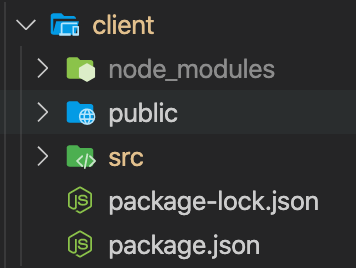
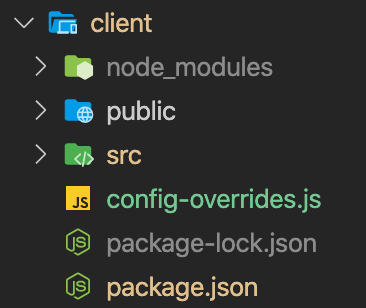
Modified README & in process of webpack config

diff --git a/routes/users.js b/routes/users.js
@@ -1,10 +1,19 @@
 /**
  * JWT Web Token Explanation
- * token = jwt.sign(payload, privateKey, signOptions)
  * 
- * payload: data that is encrypted
- * privateKey: used in RSA encryption
- * signOptions: specify configuration such as expire time, issuer of token etc..
+ * Token = header + payload + signature
+ * Both header and payload is simply encoded with base64 (which means anyone can decode and view its content)
+ * Signature is generated by hashing (SHA256) both header and payload with private key. Signature is what provides the
+ * token its confidentiality.
+ * Private key can only be viewed by the application and shouldn't be viewed by attacker
+ * 
+ * Nodejs JWT syntax:
+ * 
+ * jwt.sign(payload, privateKey, signOptions)
+ * Generates token
+ * 
+ * jwt.verify(token, private_key)
+ * Verify the token
  */
 
 const router = require('express').Router();

diff --git a/client/config-overrides.js b/client/config-overrides.js
@@ -1,0 +1,13 @@
+module.exports = (config, env) => {
+    config.module.rules.push(
+        {
+            test: /\.css$/,
+            use: [
+                "style-loader",
+                "css-loader",
+            ],
+            include: /\.module\.css$/
+        }
+    )
+    return config
+}

diff --git a/client/src/components/post.jsx b/client/src/components/post.jsx
@@ -1,6 +1,6 @@
 import React, { Component } from 'react';
 import PostImage from './image';
-import styles from './post.css';
+import styles from './post.module.css';
 import { Link } from 'react-router-dom';
 
 export default class Header extends Component {

diff --git a/README.md b/README.md
@@ -8,7 +8,7 @@ The primary goal of this project is to practice building web application using M
 [API Routes](#api-routes)<br>
 [Express](#express)<br>
 [Authentication](#authentication)<br>
-[Amazon S3](#amazon-s3)<br>
+[AWS](#aws)<br>
 [Set Up](#set-up)<br>
 [Running](#running)<br>
 [Deployment](#deployment)<br>
@@ -21,14 +21,13 @@ While not complete, I plan to add the following features to the application:<br>
 * Upload profile picture
 * Make a post with title, description, images, tags
 * Make a comment on the post
+* Chat interface
 
 
 #### Current To Do
-* React CSS Modularization
+* React CSS Modularization using webpack
 * Styling file uploader button
-* Working with Amazon S3 to upload files
 * Retrieving files from S3 and displaying on website
-* Redirection to home page after login/signup
 
 
 ## Files/Folders Explanation
@@ -67,6 +66,8 @@ Client folder contains react related files. Client-side and server-side is separ
     * **index.html:** The root html file at top of DOM. Used in react
     * **manifest.json:** Json file that describes the application
 * **src:** All the react related files
+* **config-overrides.js:** Used to override webpack configuration to allow css modules
+* **package.json:**
 
 #### Notes
 You need to run "npm install" in this folder to download all the dependencies used in front-end development<br>
@@ -87,7 +88,7 @@ Adding a webpage would involve modifying app.js file to define the client-side r
 
 
 ## API Routes
-There are two routing for web application; client and server. For explanation on the difference:
+There are two routing for web application: client and server. A stackoverflow post explains the difference:
 * With server-side routing you download an entire new webpage whenever you click on a link,
 * With client-side routing the webapp downloads, processes and displays new data for you.
 [More explanation](https://stackoverflow.com/questions/23975199/when-to-use-client-side-routing-or-server-side-routing)
@@ -112,7 +113,7 @@ Server side routes are used for restful API calls and accessing database.<br>
 | /audios/`<audio_id>`                    |                |                
 | /audios/`<audio_id>`/edit               | ✔              |
 | /images/                                |                |  
-| /images/create                          | ✔              |              
+| /images/create                          | ✔              |             
 | /images/`<audio_id>`                    |                |                
 | /images/`<audio_id>`/edit               | ✔              |
 
@@ -133,7 +134,7 @@ Server side routes are used for restful API calls and accessing database.<br>
 
 
 #### Notes
-Accessing resources from different [origin](https://developer.mozilla.org/en-US/docs/Glossary/Origin) involve [CORS](https://developer.mozilla.org/en-US/docs/Web/HTTP/CORS). 
+While in development the application is locally hosted (meaning they are in the same IP address without the need of using internet), they are still in a different port (3000 & 5000) (port is layer 3 or 4 of OSI model). I still have to consider [CORS](https://developer.mozilla.org/en-US/docs/Web/HTTP/CORS) problems as it is accessing resources from different [origin](https://developer.mozilla.org/en-US/docs/Glossary/Origin). 
 
 
 ## Express
@@ -168,20 +169,44 @@ Most commonly used status are 200, 400(Wrong Syntax) and 404(Not Found).
 * `router.route`
     * Returns an instance of a single route which you can then use to handle HTTP verbs with optional middleware
 
+
 ## Authentication
-Currently I am using JWT Based Authentication for user login. In JWT authentication, client compares encrypted user information with the given information (in our case, we are comparing given password and encrypted password) and receives a token if they matches. Token is included in every request and decrypted by the server.<br>
+Currently I am using JWT Based Authentication for user login.<br>
 
-[More Explanation](https://blog.risingstack.com/web-authentication-methods-explained/)
+When creating a new user, the given password should be hashed (not encrypted since then it could be decrypted) and stored in the database.<br>
+
+During login, the application compares encrypted user password in database with given password and receives a token if they matches.<br>
+
+### JWT
+While token generation is simply achieved by the JWT library, I'll include a little more explanation on it. 
+
+#### Token = header + payload + signature
+Both header and payload is simply encoded with base64 (which means anyone can decode and view its content)
+Signature is generated by hashing (SHA256) both header and payload with private key. Signature is what provides the token its confidentiality. Private key can only be accessed by the application and shouldn't be viewed by attacker. If the attacker tampers with the payload, it will generate a wrong signature and hence we know the given request is not secure as the given signature is different from valid signature
+
+#### Nodejs JWT syntax: 
+* jwt.sign(payload, privateKey, signOptions) 
+    * Generates token. 
+* jwt.verify(token, private_key). 
+    * Verify the token
+
+[More Explanation](https://www.sohamkamani.com/blog/javascript/2019-03-29-node-jwt-authentication/)
 
 
-## Amazon S3
+## AWS
 Amazon S3 is part of Amazon Web Services (AWS). It is storage service offered to developers. I'll be using S3 to upload photos to s3 buckets and retrieve them in the website. <br>
 
-AWS IAM defines what a principal entity is allowed to do in an account
-* Terms
-    * Policy: An object in AWS that, when associated with an identity or resource, defines their permissions
+### AWS IAM
+According to the documenation: AWS IAM defines what a principal entity is allowed to do in an account. In other word, it help control access to the AWS services by other users.<br>
+
+Controlling permissions are achieved by policy which is an object that can be attached to users, groups and roles. When making policy, we define its action (eg. listBucket, createBucket etc), resource(eg. S3 bucket) and effect (eg. allow/deny).<br>
+
+Remember to store the access key and secret key generated when creating IAM user.
+
+### AWS S3
 
 
+[General Explanation](https://medium.com/@pmuens/aws-fundamentals-what-is-iam-b57f2fb88f66)
 [S3 Documentation](https://docs.aws.amazon.com/sdk-for-javascript/v2/developer-guide/js-sdk-dv.pdf#s3-node-examples)<br>
 [Video Tutorial](https://www.youtube.com/watch?v=Oc69SEtbM_U)
 
@@ -199,6 +224,12 @@ Run the above code in the server folder (./server). If the permission is denied 
 
 ### MongoDB Atlas
 For this web application, I'm hosting cloud based database using MongoDB Atlas. You need to create mongoDB account at [mongoDB website](https://www.mongodb.com/)
+
+### AWS
+Create an account in [AWS](https://aws.amazon.com/console/). It provides free services for a year. AWS is used for S3 storage.
+
+### .env
+Set up your own environment variables. They are not included in github repo and in order to use the application, you need to make your own.
 
 ### Git
 #### `git clone https://github.com/Zerro97/blog-mern.git`
